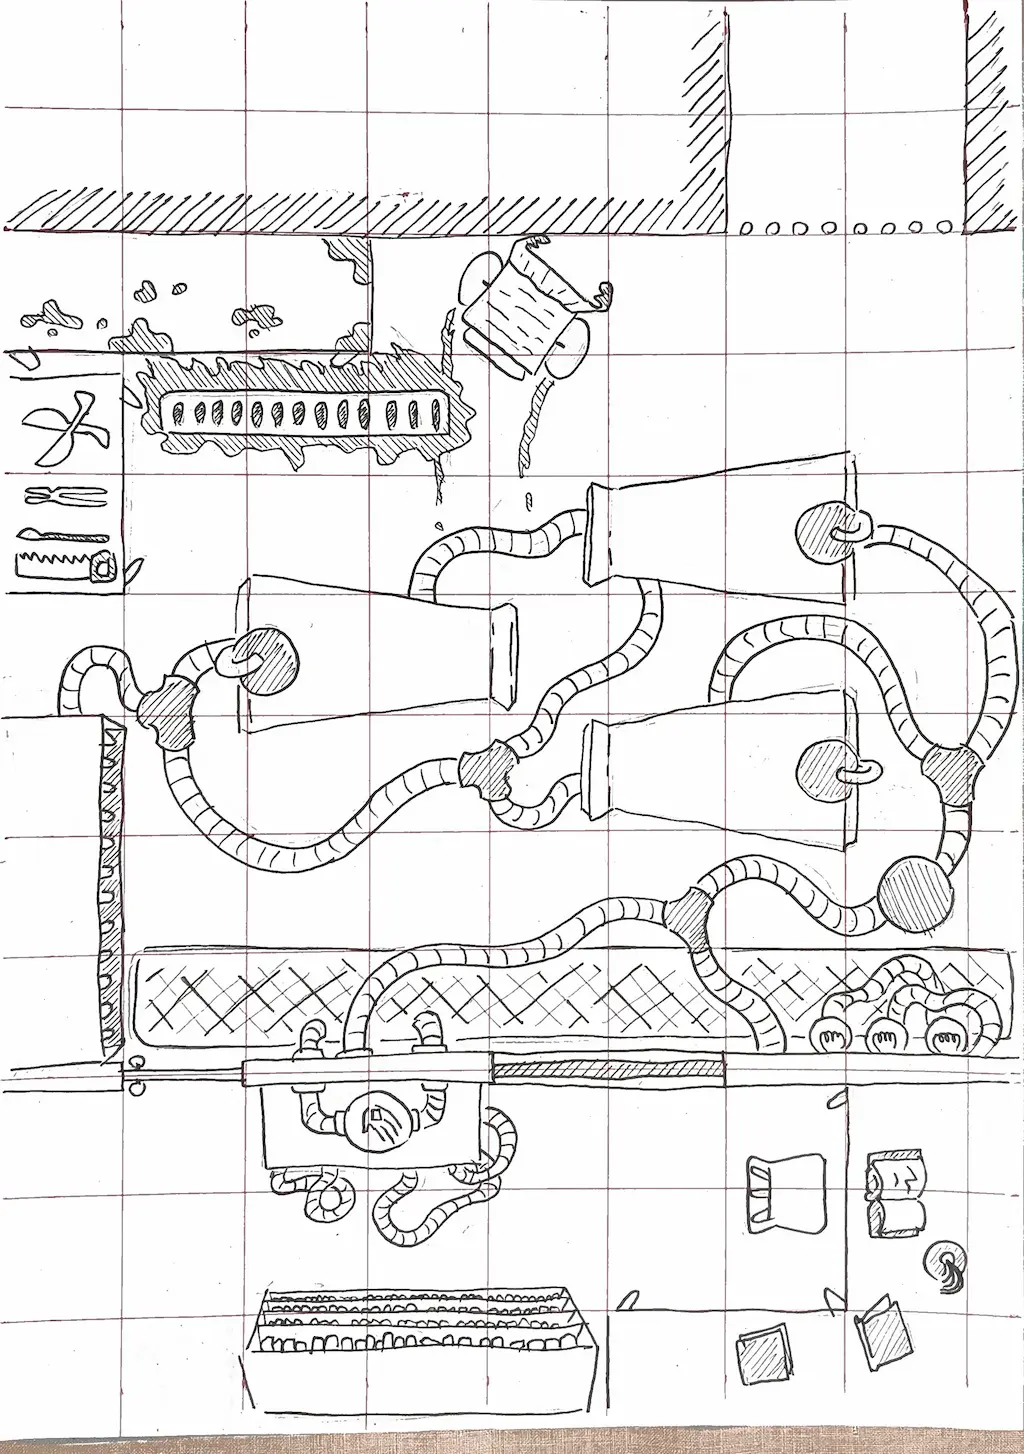
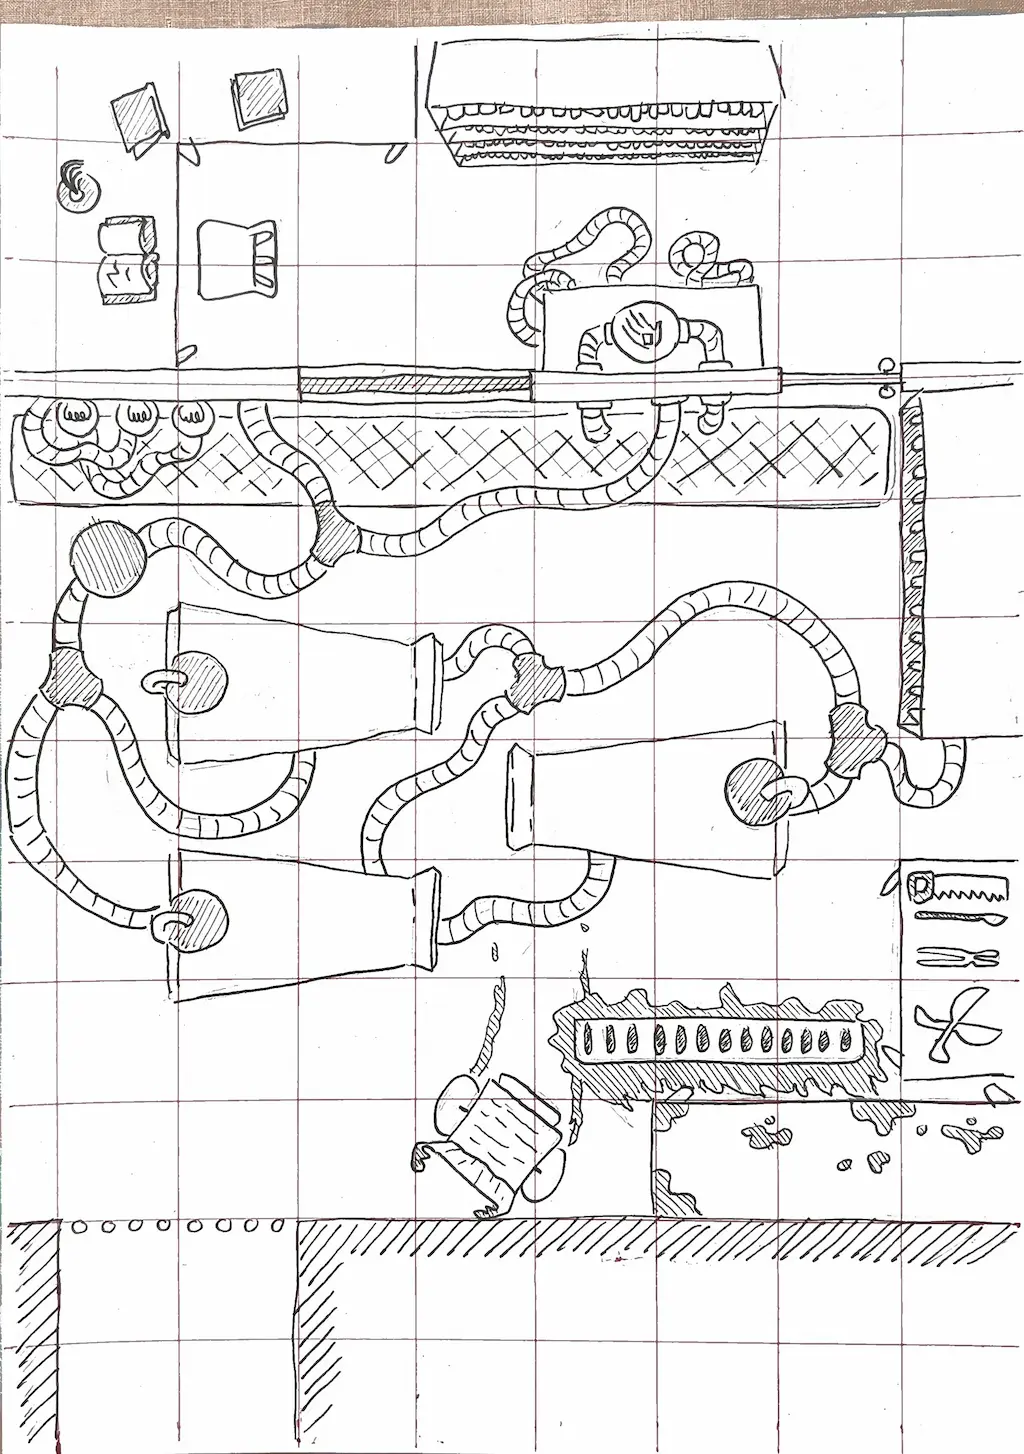
add all lcda maps

diff --git a/assets/data/sessions/lcda.js b/assets/data/sessions/lcda.js
@@ -1,26 +1,153 @@
+const imgFolder = "@/assets/imgs/lcda/";
+
 export const sessions = [
     {
         arc: 2,
-        session: 58,
+        session: 59,
         title: "El Laboratorio de Joana",
         body: [{
             type: "img",
             src: [
-                { src: "@/assets/imgs/lcda/LaboratorioJoana.webp", media: `(width > 512px)`, default: true }
+                { src: `${imgFolder}LaboratorioJoana-256.webp`, media: `(width <= 256px)` },
+                { src: `${imgFolder}LaboratorioJoana-512.webp`, media: `(width <= 512px)` },
+                { src: `${imgFolder}LaboratorioJoana.webp`, media: `(width > 512px)`, default: true }
             ],
             alt: "Dibujo del mapa de combate del Laboratorio de Joana",
             caption: undefined
         }]
-    }, {
+    },
+    {
         arc: 2,
-        session: 43,
+        session: 58,
+        title: "El cementerio de Lesterni",
+        body: [{
+            type: "img",
+            src: [
+                { src: `${imgFolder}CementerioLesterni-256.webp`, media: `(width <= 256px)` },
+                { src: `${imgFolder}CementerioLesterni-512.webp`, media: `(width <= 512px)` },
+                { src: `${imgFolder}CementerioLesterni.webp`, media: `(width > 512px)`, default: true }
+            ],
+            alt: "Dibujo del mapa de combate en el cementerio de Lesterni",
+            caption: undefined
+        }]
+    },
+    {
+        arc: 2,
+        session: 53,
+        title: "El Lago bajo Lesterni",
+        body: [{
+            type: "img",
+            src: [
+                { src: `${imgFolder}LagoBajoLesterni-256.webp`, media: `(width <= 256px)` },
+                { src: `${imgFolder}LagoBajoLesterni-512.webp`, media: `(width <= 512px)` },
+                { src: `${imgFolder}LagoBajoLesterni.webp`, media: `(width > 512px)`, default: true }
+            ],
+            alt: "Dibujo del mapa de combate en el lago bajo Lesterni",
+            caption: undefined
+        }]
+    },
+    {
+        arc: 2,
+        session: 50,
+        title: "El Pueblo de Arashi",
+        body: [{
+            type: "img",
+            src: [
+                { src: `${imgFolder}Arashi-256.webp`, media: `(width <= 256px)` },
+                { src: `${imgFolder}Arashi-512.webp`, media: `(width <= 512px)` },
+                { src: `${imgFolder}Arashi.webp`, media: `(width > 512px)`, default: true }
+            ],
+            alt: "Dibujo del mapa de combate en Arashi",
+            caption: undefined
+        }]
+    },
+    {
+        arc: 2,
+        session: 49,
+        title: "El Pantano de Arashi",
+        body: [{
+            type: "img",
+            src: [
+                { src: `${imgFolder}PantanoArashi-256.webp`, media: `(width <= 256px)` },
+                { src: `${imgFolder}PantanoArashi-512.webp`, media: `(width <= 512px)` },
+                { src: `${imgFolder}PantanoArashi.webp`, media: `(width > 512px)`, default: true }
+            ],
+            alt: "Dibujo del mapa de combate del pantano de Arashi",
+            caption: undefined
+        }]
+    },
+    {
+        arc: 2,
+        session: 47,
+        title: "La Venganza de Paulonemio",
+        body: [{
+            type: "img",
+            src: [
+                { src: `${imgFolder}GuaridaPaulonemio-256.webp`, media: `(width <= 256px)` },
+                { src: `${imgFolder}GuaridaPaulonemio-512.webp`, media: `(width <= 512px)` },
+                { src: `${imgFolder}GuaridaPaulonemio.webp`, media: `(width > 512px)`, default: true }
+            ],
+            alt: "Dibujo del mapa de combate de la guarida de Paulnemio",
+            caption: undefined
+        }]
+    },
+    {
+        arc: 2,
+        session: 44,
+        title: "La Cripta de Noos",
+        body: [{
+            type: "img",
+            src: [
+                { src: `${imgFolder}CriptaNoos-256.webp`, media: `(width <= 256px)` },
+                { src: `${imgFolder}CriptaNoos-512.webp`, media: `(width <= 512px)` },
+                { src: `${imgFolder}CriptaNoos.webp`, media: `(width > 512px)`, default: true }
+            ],
+            alt: "Dibujo del mapa de combate de la cripta bajo la ciudad de Noos",
+            caption: undefined
+        }]
+    },
+    {
+        arc: 2,
+        session: 42,
         title: "Las Alcantarillas de Noos",
         body: [{
             type: "img",
             src: [
-                { src: "@/assets/imgs/lcda/AlcantarillasNoos.webp", media: `(width > 512px)`, default: true }
+                { src: `${imgFolder}AlcantarillasNoos-256.webp`, media: `(width <= 256px)` },
+                { src: `${imgFolder}AlcantarillasNoos-512.webp`, media: `(width <= 512px)` },
+                { src: `${imgFolder}AlcantarillasNoos.webp`, media: `(width > 512px)`, default: true }
             ],
             alt: "Dibujo del mapa de combate de las alcantarillas de Noos",
+            caption: undefined
+        }]
+    },
+    {
+        arc: 2,
+        session: 38,
+        title: "La Guarida del Dragón",
+        body: [{
+            type: "img",
+            src: [
+                { src: `${imgFolder}GuaridaDragonBlanco-256.webp`, media: `(width <= 256px)` },
+                { src: `${imgFolder}GuaridaDragonBlanco-512.webp`, media: `(width <= 512px)` },
+                { src: `${imgFolder}GuaridaDragonBlanco.webp`, media: `(width > 512px)`, default: true }
+            ],
+            alt: "Dibujo del mapa de combate de la guarida del dragón blanco",
+            caption: undefined
+        }]
+    },
+    {
+        arc: 2,
+        session: 36,
+        title: "El Ataque del Dragón a Kindral",
+        body: [{
+            type: "img",
+            src: [
+                { src: `${imgFolder}AtaqueDelDragon-256.webp`, media: `(width <= 256px)` },
+                { src: `${imgFolder}AtaqueDelDragon-512.webp`, media: `(width <= 512px)` },
+                { src: `${imgFolder}AtaqueDelDragon.webp`, media: `(width > 512px)`, default: true }
+            ],
+            alt: "Dibujo del mapa de combate de Kindral",
             caption: undefined
         }]
     },

diff --git a/index.html b/index.html
@@ -73,6 +73,7 @@
       <section>
         <h2 class="title-with-border">Partidas</h2>
         <ul id="games-list">
+      
           <li>
             <a
               href="/games/lcda"
@@ -83,7 +84,7 @@
             </a>
           </li>
 
-          <!-- <li>
+          <li>
             <a
               href="/games/festival-de-las-bestias"
               class="interactive-card"
@@ -91,7 +92,7 @@
             >
               El Festival de las Bestias (2026 - Actualidad)
             </a>
-          </li> -->
+          </li>
 
           <li>
             <a
@@ -123,7 +124,7 @@
             </a>
           </li>
 
-          <!-- <li>
+          <li>
             <a
               href="/games/el-diario-de-wit"
               class="interactive-card"
@@ -131,8 +132,8 @@
             >
               El Diario de Wit (2010 - ?)
             </a>
-          </li> -->
-        </ul>
+          </li>
+    </ul>
       </section>
       <section>
         <h2 class="title-with-border">Sobre mí</h2>
